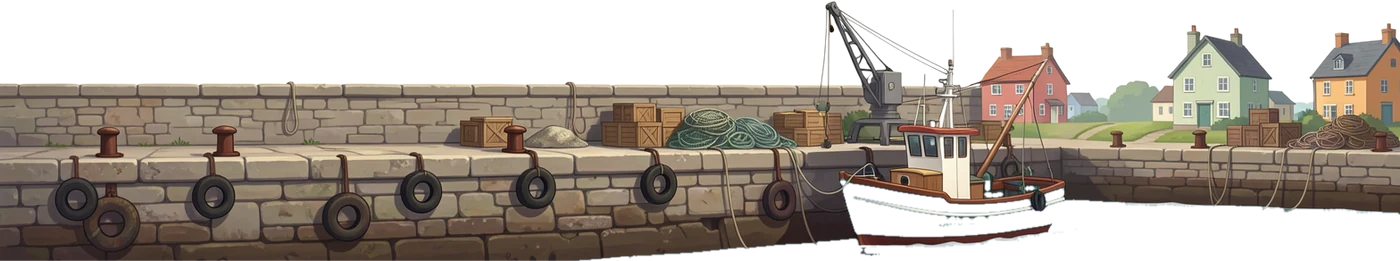
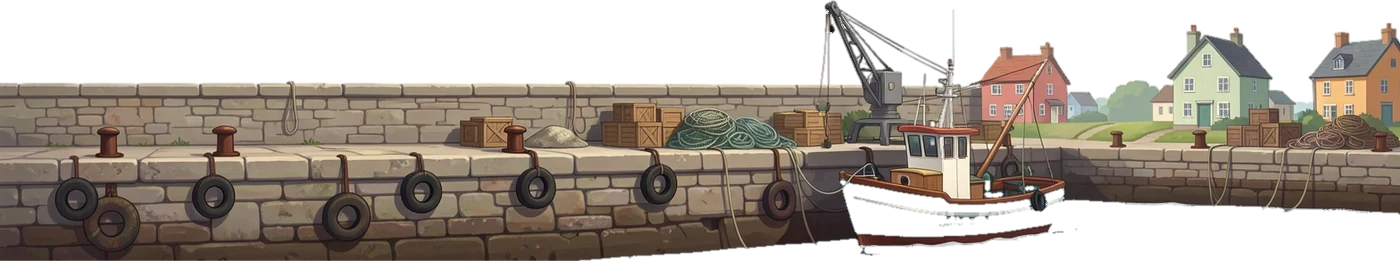
Near coasts: the shore cliff ends in rounded rock shoulders down to the water (no pasted rectangle), and every coast piece's soft edge takes the colour of its rock (no pale fringe)

diff --git a/scripts/fx/coast_ends.py b/scripts/fx/coast_ends.py
@@ -1,0 +1,31 @@
+# usage: python -I scripts/fx/coast_ends.py <in> <out> <end reach px (0 = only clean the edges)>
+# Give a coast piece real ends: the rock steps down to the water in a rough silhouette (no straight
+# picture edge), and soft edge pixels take the colour of the rock next to them (no pale fringe).
+import sys, numpy as np
+from PIL import Image
+from scipy import ndimage as nd
+src, out, reach = sys.argv[1], sys.argv[2], int(sys.argv[3])
+im = Image.open(src).convert('RGBA'); a = np.asarray(im).astype(np.float32); H, W = a.shape[:2]
+alpha = a[..., 3] / 255
+# the top of the rock in each column (first fairly solid row)
+top = np.array([np.argmax(alpha[:, x] > 0.6) if (alpha[:, x] > 0.6).any() else H for x in range(W)])
+rng = np.random.default_rng(3)
+from scipy.ndimage import gaussian_filter1d
+ys = np.arange(H)
+for side in (0, 1):
+    n = reach
+    hi = top[reach] if side == 0 else top[W - 1 - reach]
+    t = np.linspace(0, 1, n)
+    shoulder = (t * t * (3 - 2 * t)) ** 0.7                                  # a rounded rock shoulder down to the water
+    bumps = gaussian_filter1d(rng.normal(0, 1, n), 14) * 60                   # a few broad knobs, no jitter
+    for i in range(n):
+        x = i if side == 0 else W - 1 - i
+        limit_y = H - (H - hi) * shoulder[i] + bumps[i]
+        alpha[:, x] *= np.clip((ys - limit_y) / 3, 0, 1)
+# fill the colour of soft and empty pixels from the nearest solid rock, so blending never shows a fringe
+solid = alpha > 0.85
+idx = nd.distance_transform_edt(~solid, return_distances=False, return_indices=True)
+rgb = a[..., :3][idx[0], idx[1]]
+res = np.dstack([rgb, np.clip(alpha, 0, 1) * 255]).astype(np.uint8)
+Image.fromarray(res, 'RGBA').save(out, quality=88, method=6)
+print('ok')
